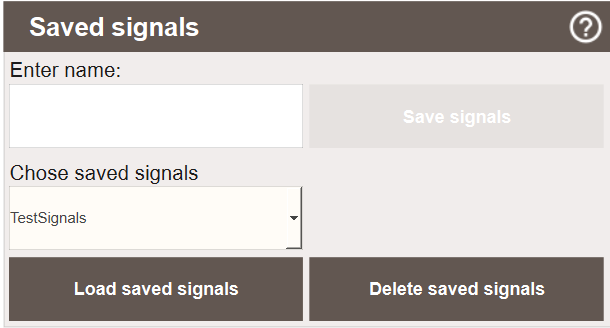
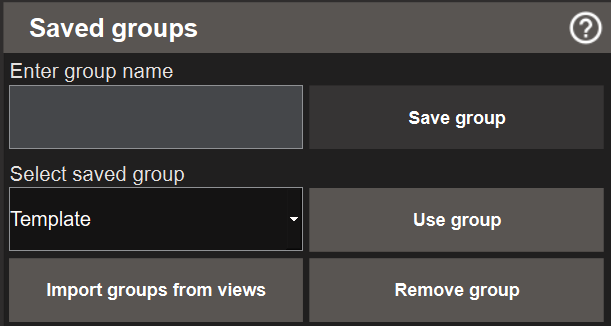
History updated with "Save groups"

diff --git a/docs/mod/modules/history/configuring.md b/docs/mod/modules/history/configuring.md
@@ -28,24 +28,43 @@ The **Track signal** panel keeps the chart centred on a specific signal as its v
 
 ## Saved Signal Groups { #saved-signal-groups }
 
-Signal groups can be saved and reloaded to avoid re-selecting the same signals each time. Saved groups are managed from the **Saved signals** section in the **Track signal** panel.
+Signal groups can be saved and reloaded to avoid re-selecting the same signals each time. Saved groups are managed from the **Saved groups** section in the **Track signal** panel.
 
-![Saved signals panel with a saved group](/Images/History/history-saved-signals.png){align=center}
+![Saved groups panel showing the group name field, dropdown, and import button](/Images/History/history-saved-signals.png){align=center}
 
 **To save a signal group:**
 
 1. Select the signals and click **Apply** so they are visible in the chart.
-2. Type a name in the **Enter name** field.
-3. Click **Save signals**. The group is saved and appears in the **Select saved signals** dropdown.
+2. Type a name in the **Enter group name** field.
+3. Click **Save group**. The group is saved and appears in the **Select saved group** dropdown.
 
 **To load a saved group:**
 
-1. Select the group from the **Select saved signals** dropdown.
-2. Click **Load saved signals**. The signals from the group are selected and applied to the chart.
+1. Select the group from the **Select saved group** dropdown.
+2. Click **Use group**. The signals from the group are selected and applied to the chart.
 
 **To delete a saved group:**
 
-1. Select the group from the **Select saved signals** dropdown.
-2. Click **Delete saved signals**. The group is removed. This does not affect the logged signal data.
+1. Select the group from the **Select saved group** dropdown.
+2. Click **Remove group**. The group is removed. This does not affect the logged signal data.
+
+### Importing Groups from Other Views { #importing-groups-from-other-views }
+
+Both the project-wide History and the view-specific History let you import saved groups that were created in other views. This lets you reuse a group saved in one view without having to recreate it.
+
+![Saved groups dialog with All saved on the left and Selected on the right](/Images/History/history-import-groups.png){align=center}
+
+**To import groups from other views:**
+
+1. Click **Import groups from views** in the **Saved groups** section. A dialog opens.
+2. The left panel (**All saved**) lists every saved group in the project — both project-wide groups and groups saved in other views, organised by their source.
+3. Select a group and click **→** to move it to the right panel (**Selected**).
+4. Repeat for each group you want to import.
+5. Click **Import and close**. The groups are added to the current saved group list.
+
+To remove a group from your selection before importing, select it in the right panel and click **←**. Click **Clear added** to empty the right panel entirely.
+
+!!! note
+    Importing a group copies it into the current context. Changes to the original group after importing are not reflected.
 
 <!-- --8<-- [end:body] -->

diff --git a/docs/mod/modules/history/get-started.md b/docs/mod/modules/history/get-started.md
@@ -35,7 +35,7 @@ The project-wide **History** view is available from the main menu. It shows sign
 The view has a chart at the top and three panels at the bottom:
 
 * **Signals** — a tree of all logged signals in the project, grouped by system. Signals are selected here and applied to the chart.
-* **Track signal** — options for tracking a live signal on the chart. Also contains the **Saved signals** section for saving and loading named signal groups.
+* **Track signal** — options for tracking a live signal on the chart. Also contains the **Saved groups** section for saving and loading named signal groups.
 * **Settings** — toggles for legend, ruler and Y-axis scaling, plus time interval and update interval controls.
 
 The **Show variables not being logged** button in the top-right corner opens a separate window that shows all signals not connected to a logger. 
@@ -79,7 +79,21 @@ The **SpeedDial** menu on process views includes a button that opens a view-spec
 
 ![View-specific history popup](/Images/History/history-view-specific.png){align=center}
 
-Signal selection, time controls, settings and saved signal groups work the same way. Saved signal groups in this popup are stored per view and are separate from project-wide saved groups.
+Signal selection, time controls, settings and saved signal groups work the same way. Saved signal groups in this popup are stored per view and are separate from project-wide saved groups. You can also import saved groups from other views using **Import groups from views** — see [Importing Groups from Other Views](configuring.md#importing-groups-from-other-views).
+
+Since the view-specific History only shows signals belonging to the current view, you can bring in signals from other views using **Import signals**.
+
+![Import signals dialog with Available on the left and Selected on the right](/Images/History/history-import-signals.png){align=center}
+
+**To import signals from other views:**
+
+1. Click **Import signals**. A dialog opens showing all signals from all other views, organised by system and object.
+2. Expand the tree in the **Available** panel to find the signal you want.
+3. Select a signal and click **→** to move it to the **Selected** panel.
+4. Repeat for each signal you want to add.
+5. Click **Import and close**. The signals are added to the signal list and can be selected and applied to the chart.
+
+To remove a signal from your selection before importing, select it in the **Selected** panel and click **←**. Click **Clear added** to empty the right panel entirely.
 
 
 ## Object Popup (History Tab) { #object-popup-history-tab }